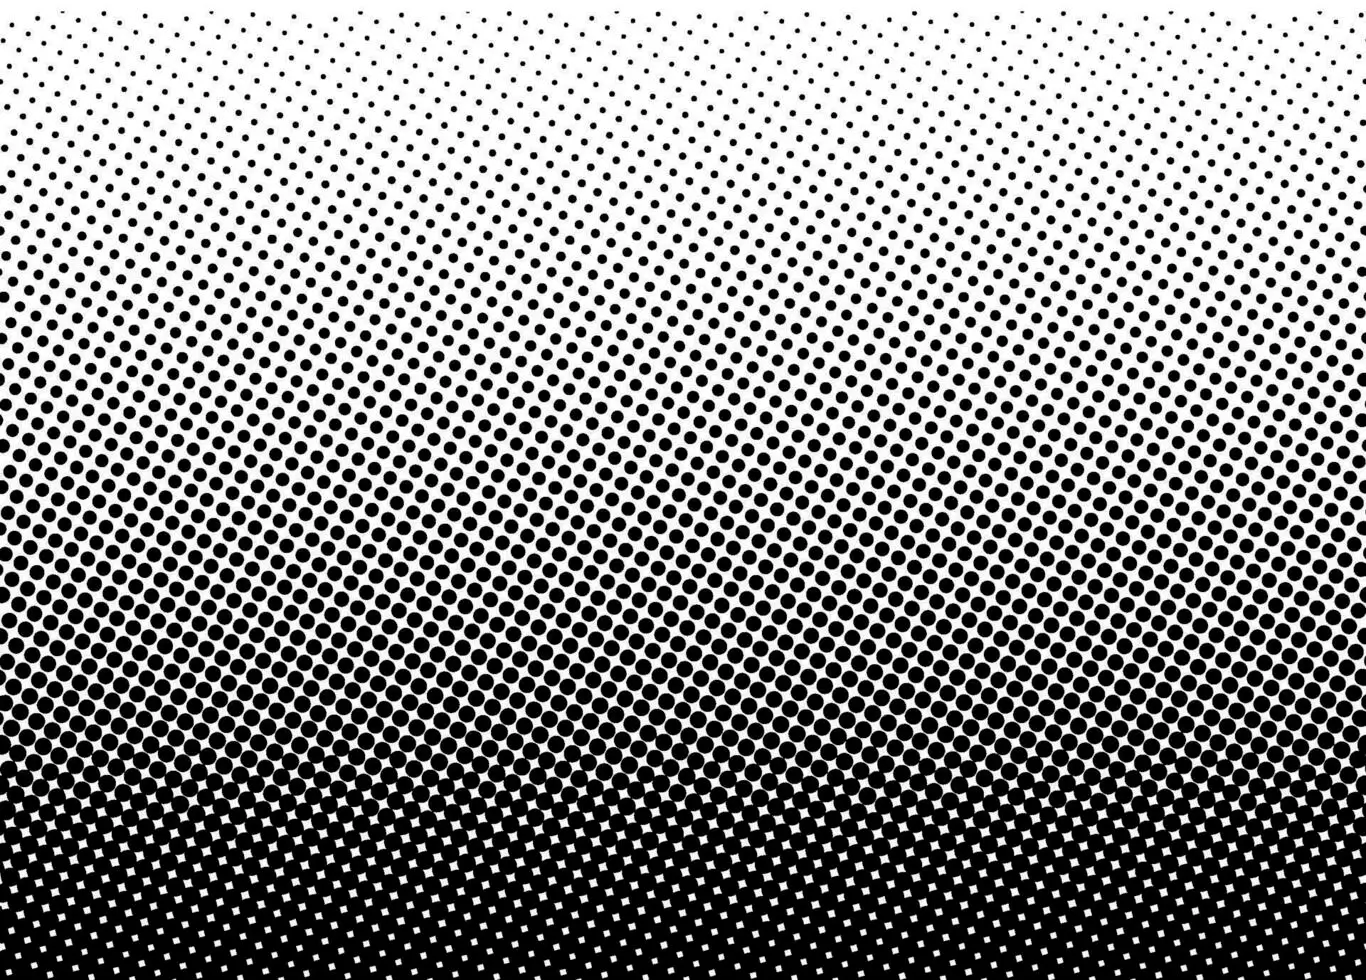
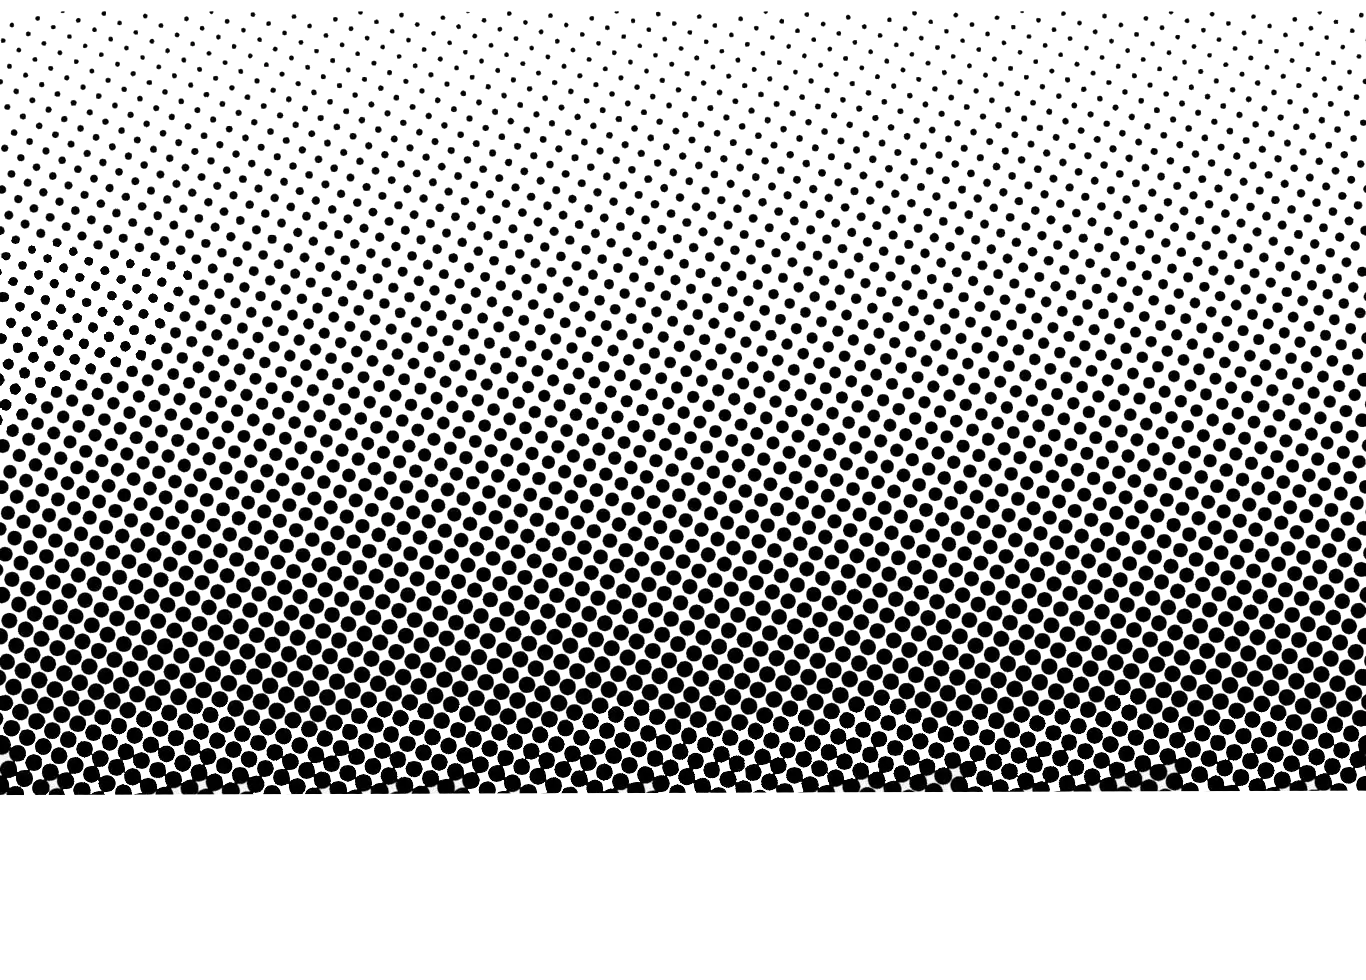
Menu casi puesto

diff --git a/CSS/index.css b/CSS/index.css
@@ -1,11 +1,19 @@
 /*--- Configuración principal del sitio web ---*/
 body {
-  background: #FFB75E;  /* fallback for old browsers */
-  background: -webkit-linear-gradient(to bottom, #ED8F03, #FFB75E);  /* Chrome 10-25, Safari 5.1-6 */
-  background: linear-gradient(to bottom, #ED8F03, #FFB75E); /* W3C, IE 10+/ Edge, Firefox 16+, Chrome 26+, Opera 12+, Safari 7+ */
-
+  background: #ffb75e; /* fallback for old browsers */
+  background: -webkit-linear-gradient(to bottom, #ed8f03, #ffb75e);
+  background: linear-gradient(to bottom, #ed8f03, #ffb75e);
 }
 
+header {
+  background-color: #ffb75e;
+  display: grid;
+  grid-template-columns: repeat(4, 1fr);
+  margin: 0 auto;
+  padding: 20px;
+  max-width: 50%;
+  border: solid 4px black;
+}
 
 .TodoContenido {
   max-width: 1200px;

diff --git a/index.html b/index.html
@@ -13,8 +13,14 @@
   </head>
 
   <body>
-    <img src="./Imagenes/Puntitos.webp" alt="">
     <div class="TodoContenido">
+      <header>
+        <div class="Logo">Sobre mi</div>
+        <div class="Logo">Proyectos</div>
+        <div class="Logo">Lenguajes</div>
+        <div class="Logo">Contacto</div>
+      </header>
+      
       <div class="Principio" id="FuentePrincipal">
         <div class="Left">
           <img
